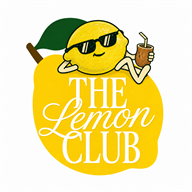
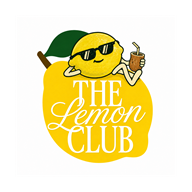
fix: íconos con padding para zona segura + manifest purpose separado any/maskable

diff --git a/sw.js b/sw.js
@@ -1,4 +1,4 @@
-const CACHE = 'tlc-v16';
+const CACHE = 'tlc-v17';
 const STATIC = ['./index.html', './styles.css', './app.js', './mascot.jpg', './icon-192.png', './icon-512.png', './manifest.json'];
 
 self.addEventListener('install', e => {